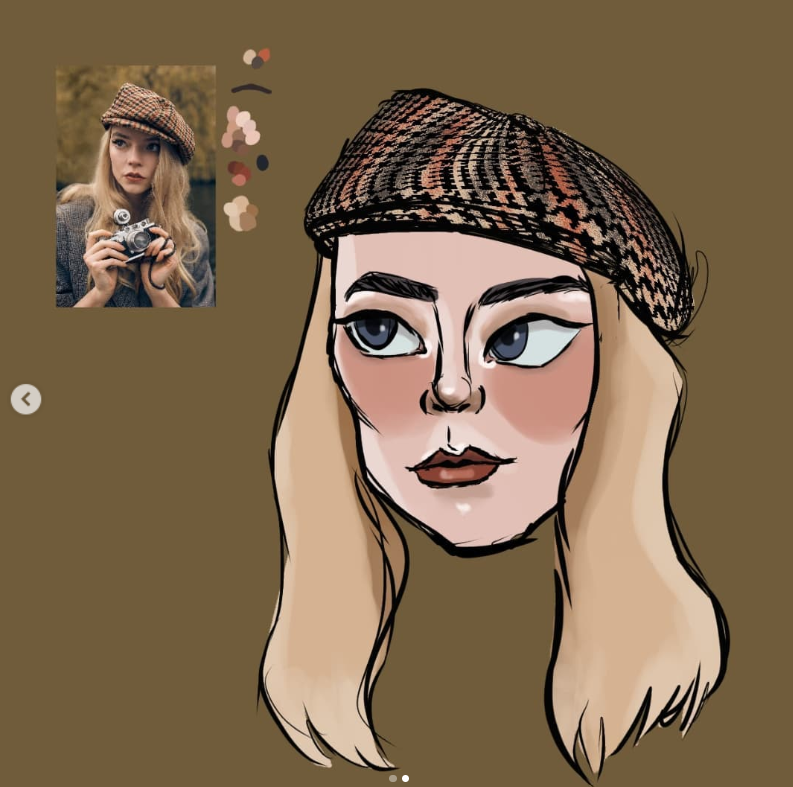
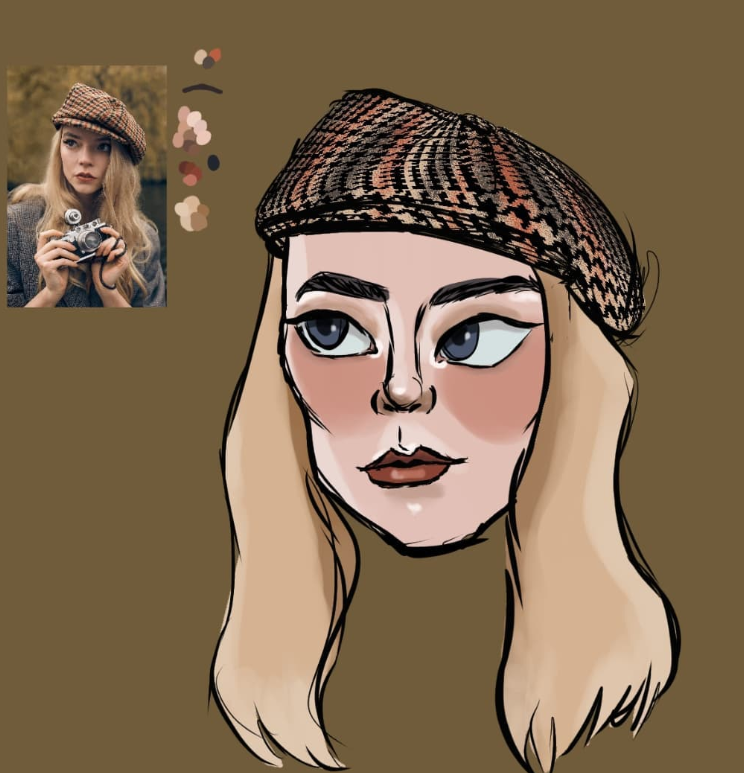
ajustement image illu

diff --git a/css/main.css b/css/main.css
@@ -230,3 +230,8 @@ body{
   width: 50%;
   height: 500px;
 }
+
+.image_illu{
+  width: 45%;
+  height: auto;
+}
